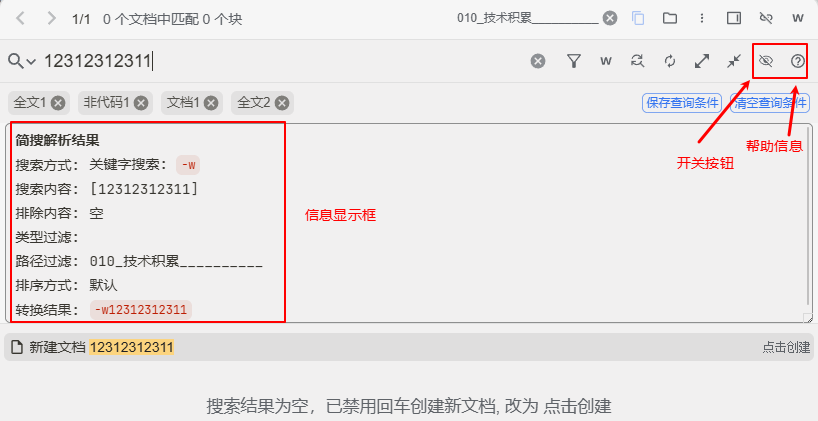
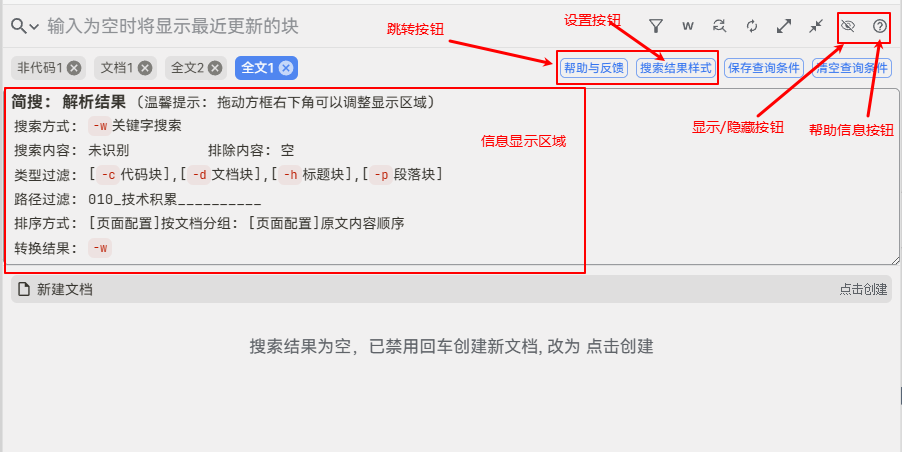
[文档] 优化readme

diff --git a/index.js b/index.js
@@ -959,7 +959,7 @@ class SimpleSearchHZ extends siyuan.Plugin {
             ${get_html_setting_once("", "接管搜索结果", "开启后, 搜索结果将以树的样式进行显示, 仅在分组下生效", get_html_check_sw("simpleSearchTreeSw", cfg.is_tree))}
             ${get_html_radio_sw(cfg.tree_style)}
             ${get_html_head('🔍', '搜索结果相关')}
-            ${get_html_setting_once("", "搜索结果优先", "开启后，搜索结果将显示在路径上面, 建议开启, 因为关闭会导致上下键顺序不对, ", get_html_check_sw("simpleSearchResTop", cfg.res_top))}
+            ${get_html_setting_once("", "搜索结果优先", "开启后，搜索结果将显示在路径上面, 建议开启, 因为关闭会导致上下键跳转的顺序不对", get_html_check_sw("simpleSearchResTop", cfg.res_top))}
             ${get_html_setting_once("", "显示全路径", "开启后, 将显示全路径, 而不是只有文档名", get_html_check_sw("simpleSearchAllPath", cfg.all_path))}
         </div>`;
         // ${get_html_setting_once("", "树样式同步至文档树", "开启后, 文档树和大纲会修改成与搜索结果相同的样式", get_html_check_sw("simpleSearchSyncTree", cfg.sync_file))}

diff --git a/index.css b/index.css
@@ -18,6 +18,7 @@
         resize: vertical;
         font-family: var(--b3-font-family-code);
         height: auto;
+        max-height: 450px;
         overflow-y: auto;
     }
     

diff --git a/README.md b/README.md
@@ -268,17 +268,26 @@
 
 ### 💡 辅助信息显示框
 
-搜索页面新增两个按钮和一个信息展示区：
-> 方便调试与确认搜索意图是否正确解析。
+搜索页面新增四个按钮和一个信息显示区：
 
 ![](img/help_info_btn.png)
 
-- **开关按钮**：控制信息框的显示/隐藏
-- **帮助按钮**：在信息框里, 展示所有支持的过滤语法
+- **显示与隐藏**: 控制 跳转按钮,设置按钮和信息显示区域 的显示/隐藏
+- **帮助信息按钮**: 在信息框显示区域里, 展示插件支持的所有语法, 方便在忘记的时候, 快速查看
   ![](img/help_info.png)
-- **信息显示框**：实时显示经插件转换后的实际搜索语句
-  ![](img/assist_info_1.png)
-
+- **跳转按钮**: 使用默认游览器打开本插件的readme, 里面有插件最详细的介绍
+- **设置按钮**: 在信息框显示区域里显示可修改的设置, 目前只支持搜索结果树相关的内容, **且设置是一次性的, 刷新思源后会重置成默认状态**
+  ![](img/tree_setting.png)
+  + 树 竖线风格
+    ![](img/tree_style.png)
+  + 搜索结果优先: 建议开启, 因为关闭会导致上下键跳转的顺序不对
+    ![](img/search_res_top.png)
+  + 显示全路径
+    ![](img/all_path.png)
+- **信息显示区**：
+  + 显示帮助信息与设置
+  + 在搜索后触发, 自动将插件转换后的实际搜索语句显示出来, 方便调试与确认搜索意图是否正确解析。
+    ![](img/assist_info_1.png)
 
 ---
 
@@ -288,13 +297,12 @@
 - 适配**查询条件**：点击查询条件后仍可正常解析指令
 - 当无匹配文档时，**禁用回车创建新文档**，防止误操作  
   ![](img/forbid_enter_create_file.png)
-- 按文档分组的搜索结果排序规则：  
-  `笔记本ID升序 → 路径名称升序`
 
 ---
 
 ## 🐞 已知问题（待处理）
 
+* [小优化] 设置持久化
 * [小优化] 优化转换sql, 有些没必要转换
 * [小功能] 增加类型: 锚文本(块引用), 行内代码, 行内公式
 * [大功能] 接管上下键和回车, 输入时显示下拉框，实时更新匹配到的搜索历史, 需要测试是否可行
@@ -312,18 +320,18 @@
 ---
 
 ## 📅 更新日志
-### [2025/09/28_17:55:20] `develop_v1.0.2`
-- [优化] 帮助页面, 增加点击跳转反馈和查看帮助
-- [修改] 取消`-a`, 改用`//`
-- [修复] 高亮逻辑偶尔运行出错
-- [修复] 优化指定路径的逻辑
+### [2025/09/28_17:55:20] `develop_v1.0.2_optimize_sort`
 - [增加] 支持通过输入指定排序方式
 - [增加] 支持通过输入指定是否按文档分组
 - [增加] 接管搜索结果显示, 按照文档树的结构, 而不是平铺
 - [增加] 支持设置页面, 控制搜索结果样式
+- [优化] 帮助页面, 增加点击跳转反馈和查看帮助
+- [修改] 取消`-a`, 改用`//`
+- [修复] 优化指定路径的逻辑
+- [修复] 高亮逻辑偶尔运行出错
 
 
-### [2025/08/07_17:45:34] `develop_v1.0.1`
+### [2025/08/07_17:45:34] `develop_v1.0.1_optimize`
 - [修复] kK无法使用
 - [修复] 不按文档分组, 点第一个搜索结果会创建文档
 - [优化] 辅助信息内容
